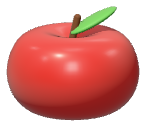
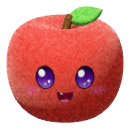
clay garden V1.1

diff --git a/src/data/garden.ts b/src/data/garden.ts
@@ -24,7 +24,7 @@ export const GARDENS = {
   fruits: {
     ground: fruitsGround,
     foods: { apple: fruitsApple, banana: fruitsBanana, orange: fruitsOrange },
-    items: [{ food: "apple", box: [4.33, 33.77, 12.17, 18.41], hit: [4.83, 34.64, 11.17, 16.67], tilt: -8 }, { food: "apple", box: [17.92, 34.64, 12.08, 18.41], hit: [18.42, 35.51, 11.08, 16.67], tilt: 6 }, { food: "apple", box: [4.17, 54.06, 12.08, 18.26], hit: [4.67, 54.93, 11.08, 16.52], tilt: 4 }, { food: "apple", box: [17.67, 53.19, 12.17, 18.26], hit: [18.17, 54.06, 11.17, 16.52], tilt: -5 }, { food: "banana", box: [37.83, 49.57, 8.33, 23.91], hit: [38.33, 50.43, 7.33, 22.17], tilt: 14 }, { food: "banana", box: [44.83, 48.12, 8.33, 23.77], hit: [45.33, 48.99, 7.33, 22.03], tilt: 0 }, { food: "banana", box: [51.75, 49.57, 8.42, 23.91], hit: [52.25, 50.43, 7.42, 22.17], tilt: -14 }, { food: "orange", box: [70.5, 31.88, 11.08, 20.43], hit: [71.0, 32.75, 10.08, 18.7], tilt: 6 }, { food: "orange", box: [84.08, 32.75, 11.0, 20.43], hit: [84.58, 33.62, 10.0, 18.7], tilt: -8 }, { food: "orange", box: [77.25, 52.32, 11.08, 20.43], hit: [77.75, 53.19, 10.08, 18.7], tilt: 4 }],
+    items: [{ food: "apple", box: [5.0,  34.06,  10.83,  18.7], hit: [5.5,  34.93,  9.83,  16.96], tilt: -8 }, { food: "apple", box: [18.58,  34.93,  10.75,  18.7], hit: [19.08,  35.8,  9.75,  16.96], tilt: 6 }, { food: "apple", box: [4.83,  55.07,  10.75,  18.84], hit: [5.33,  55.94,  9.75,  17.1], tilt: 4 }, { food: "apple", box: [18.33,  54.2,  10.83,  18.84], hit: [18.83,  55.07,  9.83,  17.1], tilt: -5 }, { food: "banana", box: [37.92,  48.7,  8.83,  25.36], hit: [38.42,  49.57,  7.83,  23.62], tilt: 14 }, { food: "banana", box: [44.83,  47.1,  8.92,  25.36], hit: [45.33,  47.97,  7.92,  23.62], tilt: 0 }, { food: "banana", box: [51.83,  48.7,  8.92,  25.36], hit: [52.33,  49.57,  7.92,  23.62], tilt: -14 }, { food: "orange", box: [70.25,  32.75,  11.58,  20.43], hit: [70.75,  33.62,  10.58,  18.7], tilt: 6 }, { food: "orange", box: [83.83,  33.62,  11.5,  20.43], hit: [84.33,  34.49,  10.5,  18.7], tilt: -8 }, { food: "orange", box: [77.0,  53.19,  11.58,  20.43], hit: [77.5,  54.06,  10.58,  18.7], tilt: 4 }],
     basket: BASKET,
   },
   vegetables: {
